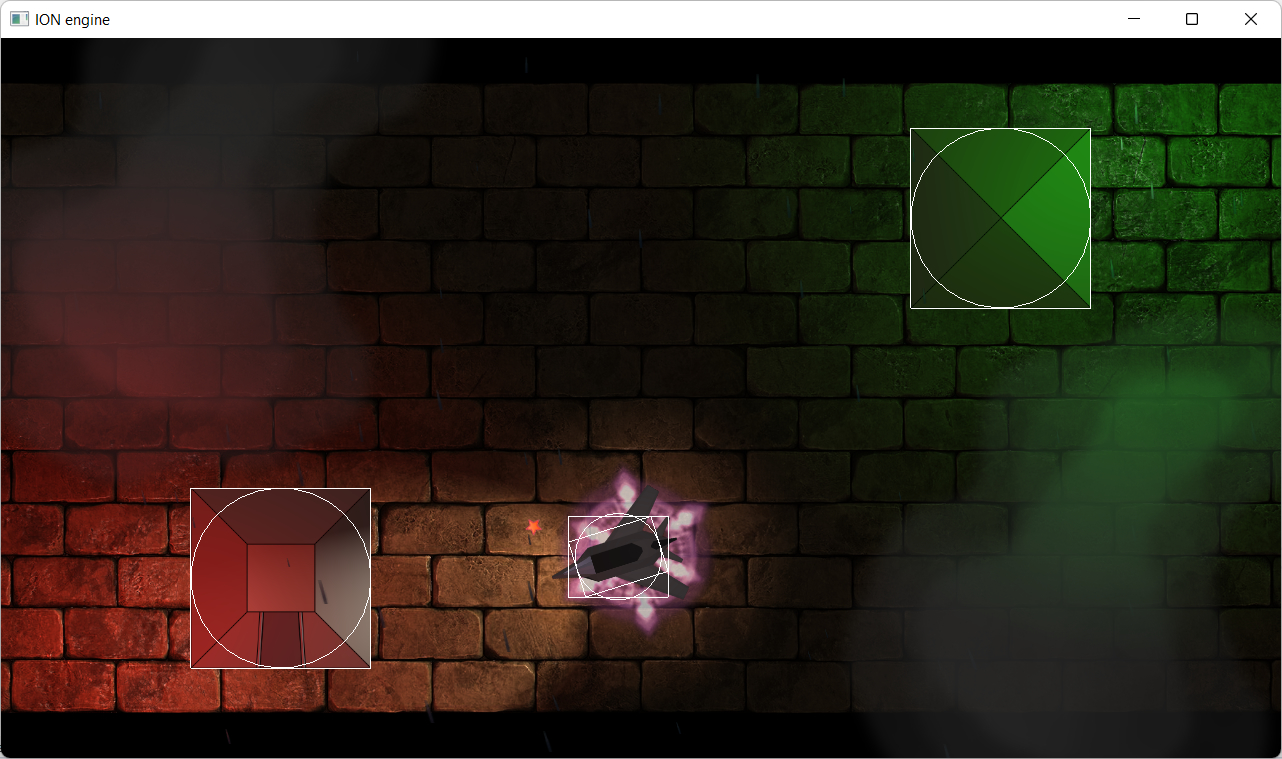
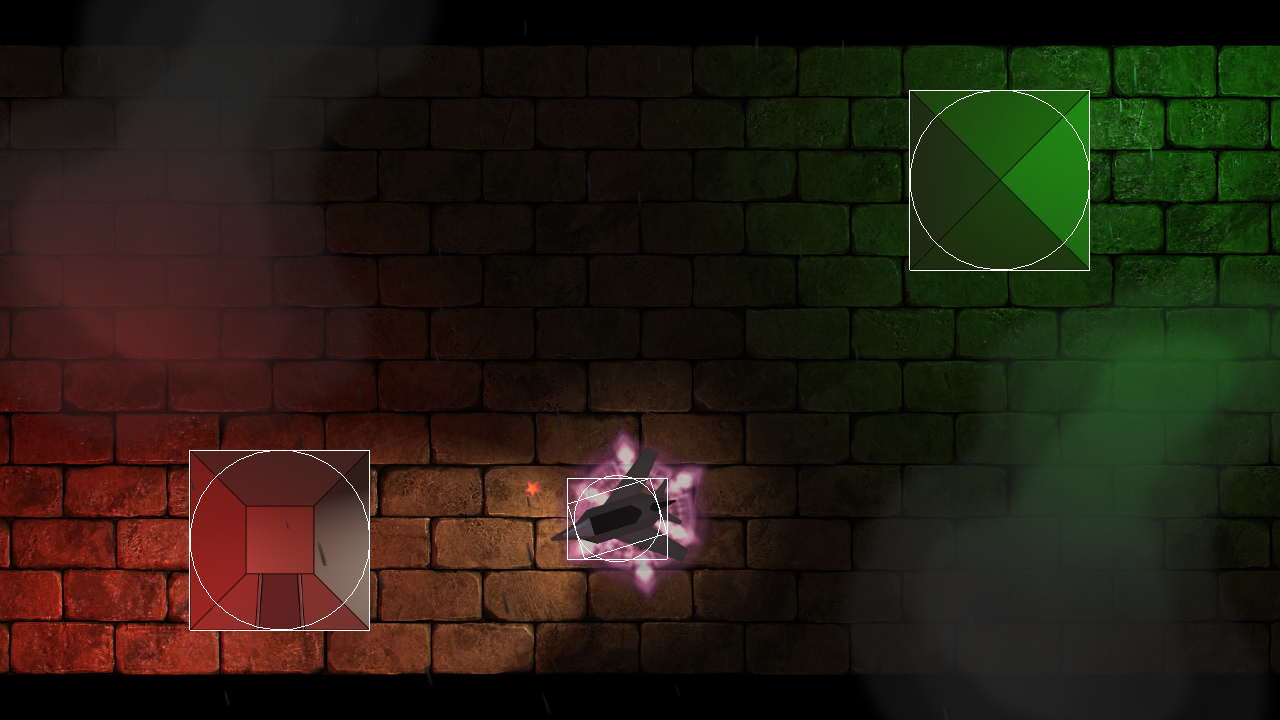
Cropped demo screenshots to fit 16:9 aspect ratio.

diff --git a/README.md b/README.md
@@ -40,10 +40,10 @@ One of the things I enjoy the most when writing code, is actually writing most o
 
 ### Demo screenshots
 <p float="left">
-    <a href="demo/screenshots/splash_screen.jpg"><img src="demo/screenshots/splash_screen.jpg" width="402px" /></a>
-    <a href="demo/screenshots/demo_screen.jpg"><img src="demo/screenshots/demo_screen.jpg" width="402px" /></a>
-    <a href="demo/screenshots/demo_screen_bounds.jpg"><img src="demo/screenshots/demo_screen_bounds.jpg" width="402px" /></a>
-    <a href="demo/screenshots/gui_screen.jpg"><img src="demo/screenshots/gui_screen.jpg" width="402px" /></a>
+    <a href="demo/screenshots/splash_screen.jpg"><img src="demo/screenshots/splash_screen.jpg" width="384px" /></a>
+    <a href="demo/screenshots/demo_screen.jpg"><img src="demo/screenshots/demo_screen.jpg" width="384px" /></a>
+    <a href="demo/screenshots/demo_screen_bounds.jpg"><img src="demo/screenshots/demo_screen_bounds.jpg" width="384px" /></a>
+    <a href="demo/screenshots/gui_screen.jpg"><img src="demo/screenshots/gui_screen.jpg" width="384px" /></a>
 </p>
 
 ## How to setup shaders
